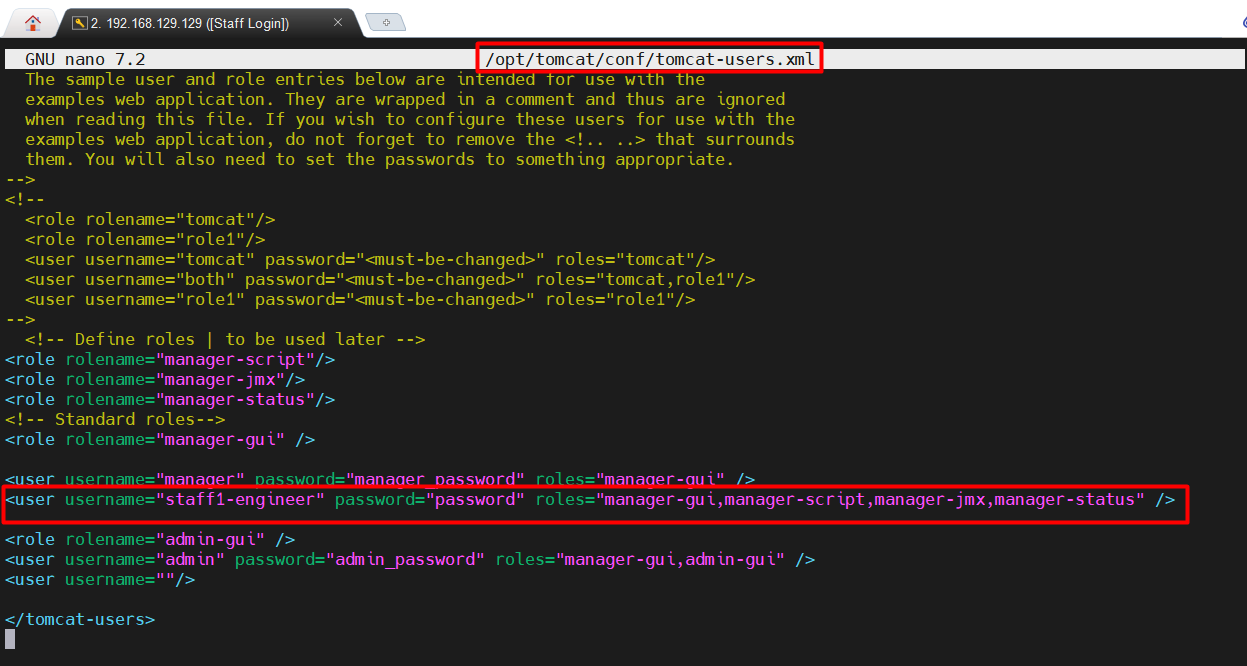
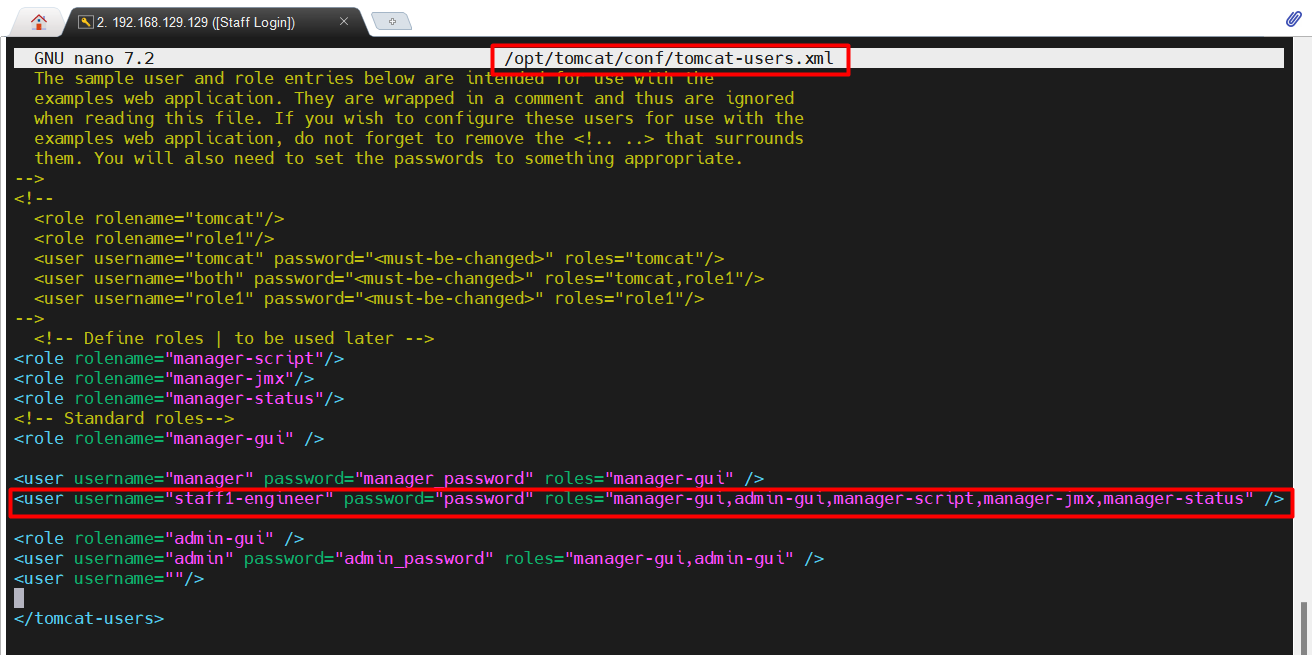
Reconfiguring apache tomcat day-4.

Changed region(s): [[0.0, 0.0, 1.0, 1.0]]

diff --git a/Java-Webapps-Simulation/1/Installing-ApacheTomcat_and_ApacheHTTP.md b/Java-Webapps-Simulation/1/Installing-ApacheTomcat_and_ApacheHTTP.md
@@ -72,6 +72,13 @@ If in the future the downloadable file error you, can visit this main website to
 <p align="center"><img src="/image-files/apache-config-1.png"></p>
 
 <p align="center"><img src="/image-files/apache-config-2.png"></p>
+<p align="center">Don't forget to type <b>ctrl + x then y and enter to save</b></p>
+</p>
+
+<p align="justify">
+By default, Tomcat is configured to restrict access to the admin pages, unless the connection comes from the server itself. To access those pages with the users you just defined, you will need to edit config files for those pages.
+
+<p align="center"><img src="/image-files/tomcat-directory-locking.png"></p>
 </p>
 
 <p align="justify">

diff --git a/Java-Webapps-Simulation/terminal-commands.md b/Java-Webapps-Simulation/terminal-commands.md
@@ -50,7 +50,7 @@ Add the following lines before the ending tag:
 <role rolename="manager-gui" />
 
 <user username="manager" password="manager_password" roles="manager-gui" />
-<user username="staff1-engineer" password="password" roles="manager-gui,manager-script,manager-jmx,manager-status" />
+<user username="staff1-engineer" password="password" roles="manager-gui,admin-gui,manager-script,manager-jmx,manager-status" />
 
 <role rolename="admin-gui" />
 <user username="admin" password="admin_password" roles="manager-gui,admin-gui" />
